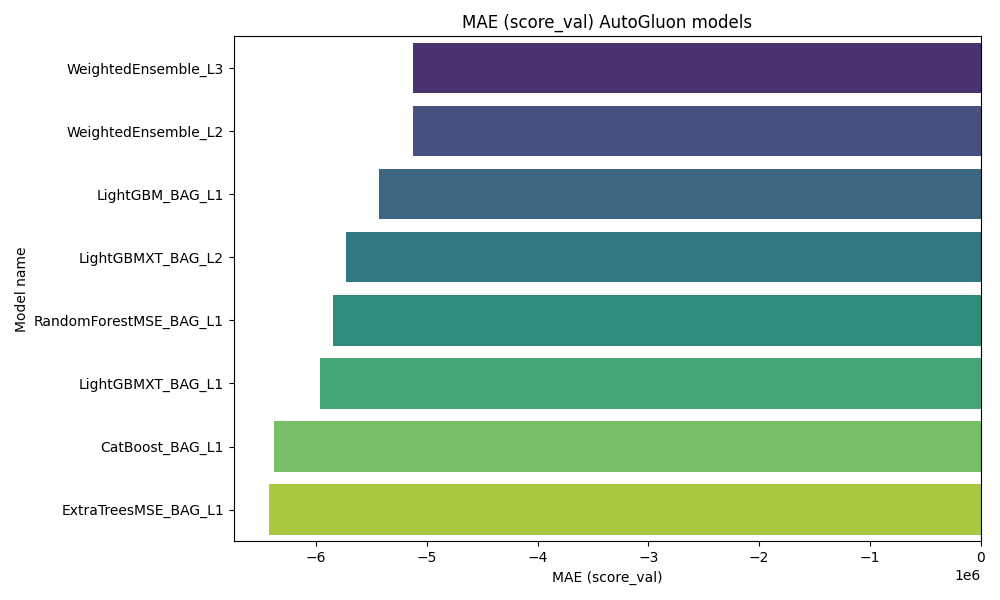
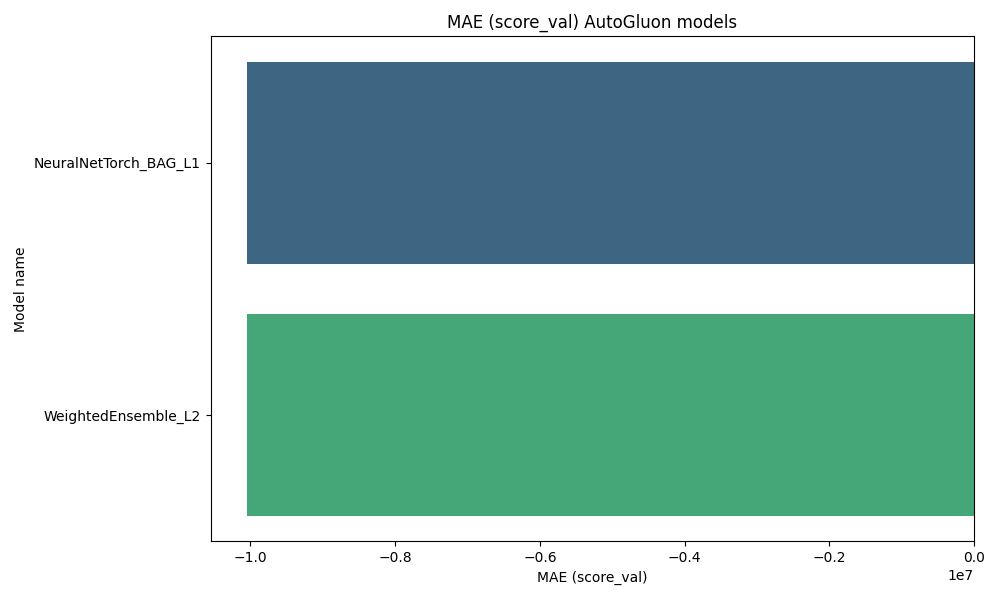
russian bert

diff --git a/model_autogluon_transformers.py b/model_autogluon_transformers.py
@@ -1,0 +1,77 @@
+import pandas as pd
+from autogluon.tabular import TabularPredictor
+#from sklearn.model_selection import train_test_split
+import matplotlib.pyplot as plt
+import seaborn as sns
+#import os
+
+#os.environ["OMP_NUM_THREADS"] = "2"
+#os.environ["OPENBLAS_NUM_THREADS"] = "2"
+#os.environ["MKL_NUM_THREADS"] = "2"
+#os.environ["NUMEXPR_NUM_THREADS"] = "2"
+#os.environ["VECLIB_MAXIMUM_THREADS"] = "2"
+#os.environ["RAYON_NUM_THREADS"] = "2"
+
+data = pd.read_csv('db_full_cleaned_vectorized.csv')
+
+if "Unnamed: 0" in data.columns:
+    data = data.drop(columns=["Unnamed: 0"])
+
+
+
+#######################
+
+KEY_LABEL = "price"
+MODELS = {
+    'FT_TRANSFORMER': {'_max_features': None },    
+    'NN_TORCH': {},   
+    'GBM': {}                              
+}
+#######################
+
+#train_data, val_data = train_test_split(df, test_size=0.15, random_state=1801)
+
+
+predictor = TabularPredictor(label=KEY_LABEL, problem_type="regression", eval_metric="mae").fit( 
+    train_data=data,
+    #tuning_data=val_data,
+    presets="best_quality",  
+    time_limit=7200,   
+    hyperparameters=MODELS
+)
+
+####################
+#predictor.leaderboard(silent=False)
+
+preds = predictor.predict(data)
+true = data["price"]
+
+leader = predictor.leaderboard(silent=True)
+leader.to_csv("leaderboard.csv", index=False)
+
+######VIS BLOCK###############
+plt.figure(figsize=(10, 6))
+sns.barplot(
+    data=leader.sort_values("score_val", ascending=False),
+    y="model",
+    x="score_val",
+    palette="viridis"
+)
+plt.title("MAE (score_val) AutoGluon models")
+plt.xlabel("MAE (score_val)")
+plt.ylabel("Model name")
+plt.tight_layout()
+plt.savefig("leaderboard_plot.png")
+plt.close()
+
+
+plt.figure(figsize=(8, 8))
+sns.scatterplot(x=true, y=preds, alpha=0.3)
+plt.plot([true.min(), true.max()], [true.min(), true.max()], 'r--')  # линия идеала
+plt.xlabel("Real price")
+plt.ylabel("Predicted price")
+plt.title("Сравнение предсказания и реальной цены")
+plt.grid(True)
+plt.tight_layout()
+plt.savefig("predict_vs_true.png")
+plt.close()

diff --git a/model_bert_data_embed.py b/model_bert_data_embed.py
@@ -1,0 +1,33 @@
+import pandas as pd
+from sentence_transformers import SentenceTransformer
+import numpy as np
+from tqdm import tqdm
+
+########ENGLISH############
+#bertModel = SentenceTransformer('all-MiniLM-L6-v2')
+#bertModel = SentenceTransformer('all-MiniLM-L12-v2')
+#bertModel = SentenceTransformer('all-mpnet-base-v2')
+
+########RUSSIAN#############
+
+
+#bertModel = SentenceTransformer('ai-forever/sbert_large_mt_nlu_ru') 
+bertModel = SentenceTransformer('distiluse-base-multilingual-cased-v2')
+
+
+df = pd.read_csv('db_full_cleaned.csv')
+df["extra"] = df["extra"].fillna("")
+batch_size = 64
+embeddings = []
+
+for i in tqdm(range(0, len(df), batch_size)):
+    batch = df["extra"].iloc[i:i+batch_size].tolist()
+    batch_embeddings = bertModel.encode(batch, show_progress_bar=True)
+    embeddings.extend(batch_embeddings)
+
+vector_df = pd.DataFrame(embeddings, columns=[f"vectorized_{i}" for i in range(len(embeddings[0]))])
+df_bert = pd.concat([df.reset_index(drop=True), vector_df], axis=1)
+df_bert = df_bert.drop(columns=["extra"])
+
+df_bert.to_csv("db_full_cleaned_vectorized.csv", index=False)
+
